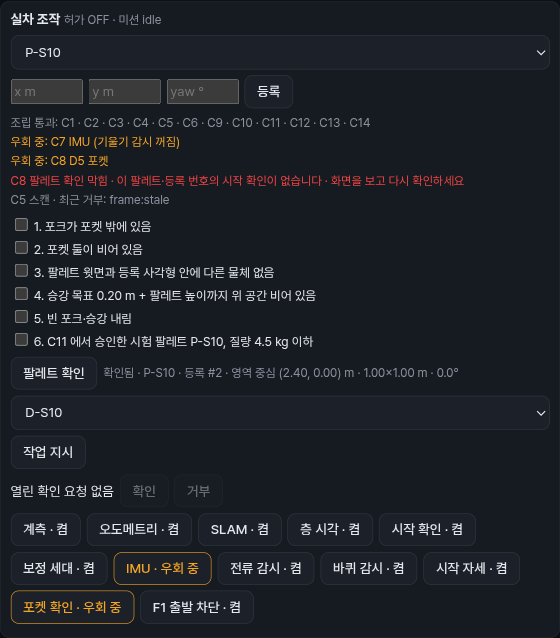
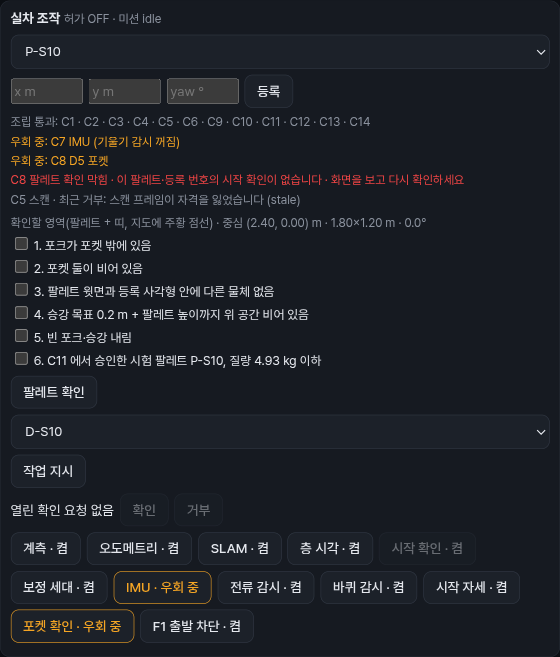
fix(console): U3c after Codex round 1 -- the region shown before the ticks, ticks bound to lease/pose/generation and consumed at send, approved values unrounded, the D5 bypass shown with depth too, closed bypass buttons, scan reason texts

diff --git a/console/web/js/realpanel_dom.js b/console/web/js/realpanel_dom.js
@@ -2,8 +2,8 @@
 // pallet, confirm the start, submit with the registered revision, answer the operator check bound to what was
 // pressed, finish a field recovery, bypass checks, rearm. The decisions are realpanel.js's; this file draws and sends.
 
-import { answerKey, answerStillOpen, bypassButtons, manualOnlyNotice, palletConfirmTexts, panelShown, poseOf,
-  preconditionRows, relocalizeClosedWhy, relocalizeResult, relocalizeView, startFields, startStateText, statusIsMine,
+import { answerKey, answerStillOpen, bypassButtons, checksKey, confirmRegion, manualOnlyNotice, palletConfirmTexts,
+  panelShown, poseOf, preconditionRows, regionText, relocalizeClosedWhy, relocalizeResult, relocalizeView, startFields, startStateText, statusIsMine,
   statusSig, submitClosedWhy, submitRevision, toggleShown } from "./realpanel.js";
 
 const $ = (id) => document.getElementById(id);
@@ -131,22 +131,32 @@ export function bindRealPanel(m, rejectText, clientId) {
   $("rp-start").onclick = guard(() => {
     if (panel.toggle) return say("우회 변경이 적용되기를 기다립니다");
     const st = m.session.realStatus;
-    const fields = startFields(panel.registered, st);
+    const fields = startFields(panel.registered, st, m.session.targets);
     if (fields === null) return say("팔레트를 (다시) 등록한 뒤 확인하세요");
-    if (palletConfirmTexts(st) !== null) {
-      // U3c (plan 2.6): the six lines ticked, for the registration drawn, and the inputs still name it
-      const boxes = [...document.querySelectorAll("#rp-checks input[type=checkbox]")];
-      if (!boxes.length || boxes.some((b) => !b.checked)) return say("여섯 항목을 모두 눈으로 확인하고 표시하세요");
+    const texts = palletConfirmTexts(st);
+    if (texts !== null) {
+      // U3c (plan 2.6): the six lines ticked for exactly the registration, lease and region on screen now
+      // (Codex round 1 P1-1), and the inputs still name the registration
       const reg = panel.registered;
+      if (!confirmRegion(reg, st)) return say("확인할 영역이 아직 오지 않았습니다 · 잠시 뒤 다시 보세요");
+      const box = $("rp-checks");
+      const boxes = [...box.querySelectorAll("input[type=checkbox]")];
+      if (box.dataset.key !== checksKey(st, gens(), reg, texts) || boxes.length !== texts.length
+        || boxes.some((b) => !b.checked)) return say("여섯 항목을 모두 눈으로 확인하고 표시하세요");
       const pose = poseOf($("rp-x").value, $("rp-y").value, $("rp-yaw").value);
       if ($("rp-pallet").value !== reg.pallet || !pose || pose.some((v, i) => Math.abs(v - reg.pose[i]) > 1e-9)) {
         return say("등록한 뒤 팔레트나 자세를 바꿨습니다 · 다시 등록하세요");
       }
+      for (const b of boxes) b.checked = false; // consumed by this one send (Codex round 1 P2-2)
     }
-    send("operator_start", fields, "시작 확인을 보냈습니다").then(() => {
-      for (const b of document.querySelectorAll("#rp-checks input[type=checkbox]")) b.checked = false;
-    });
+    send("operator_start", fields, "시작 확인을 보냈습니다");
   }, "rp-start");
+  // U3c (Codex round 1 P1-1): an edit of the pallet or the pose unticks the six lines, even if edited back
+  for (const id of ["rp-pallet", "rp-x", "rp-y", "rp-yaw"]) {
+    $(id).addEventListener("input", () => {
+      for (const b of $("rp-checks").querySelectorAll("input[type=checkbox]")) b.checked = false;
+    });
+  }
   $("rp-submit").onclick = guard(() => {
     if (panel.toggle) return say("우회 변경이 적용되기를 기다립니다"); // from the toggle's send on (r2 P2-3)
     const rev = submitRevision(panel.registered, m.session.realStatus, m.session.targets);
@@ -318,14 +328,20 @@ export function renderRealPanel(m, clientId) {
     pre.dataset.sig = rowSig;
   }
   pre.hidden = rows.length === 0;
-  // U3c (plan 2.6): the six lines of the pallet confirmation, unticked again for every new registration
+  // U3c (plan 2.6): the region the confirmation would bind, then the six lines -- only for this console's current
+  // registration, unticked again whenever the session, lease, registration, generation or lines change
   const texts = palletConfirmTexts(st);
+  const region = texts === null ? null : confirmRegion(panel.registered, st);
+  panel.confirmRegion = region; // the map draws it (main.js)
   const checks = $("rp-checks");
   checks.hidden = texts === null;
   $("rp-start").textContent = texts === null ? "시작 확인" : "팔레트 확인";
-  const checkSig = texts === null ? "" : `${st.session_epoch}:${st.register_serial}:${texts.join("|")}`;
-  if (checks.dataset.sig !== checkSig) {
-    checks.replaceChildren(...(texts ?? []).map((text, i) => {
+  const ckey = region ? checksKey(st, gens, panel.registered, texts) : "";
+  if (checks.dataset.key !== ckey) {
+    const head = document.createElement("div");
+    head.className = "hint";
+    head.textContent = region ? regionText(region) : "팔레트를 등록하면 확인할 영역과 여섯 항목이 나옵니다";
+    checks.replaceChildren(head, ...(region ? texts : []).map((text, i) => {
       const label = document.createElement("label");
       const box = document.createElement("input");
       box.type = "checkbox";
@@ -333,7 +349,7 @@ export function renderRealPanel(m, clientId) {
       label.append(box, ` ${i + 1}. ${text}`);
       return label;
     }));
-    checks.dataset.sig = checkSig;
+    checks.dataset.key = ckey;
   }
   const key = answerKey(st);
   panel.opKey = key;

diff --git a/console/web/js/realpanel.js b/console/web/js/realpanel.js
@@ -65,9 +65,14 @@ export function toggleShown(toggle, status) {
 export function bypassButtons(status, hasLease) {
   const on = new Set(status && Array.isArray(status.bypassed) ? status.bypassed : []);
   const why = closedWhy(status, hasLease);
-  return BYPASSABLE.map((check) => ({
-    check, label: CHECK_LABELS[check] ?? check, bypassed: on.has(check), enabled: why === null, why,
-  }));
+  return BYPASSABLE.map((check) => {
+    // U3c (Codex round 1 P3-3): what the vehicle refuses on this run is closed here too (real_loop
+    // OPERATING_NOT_BYPASSABLE; the per-pallet confirmation without depth, plan 2.6)
+    const never = (status && status.operating && check === "layer_timing")
+      || (check === "operator_start" && status && Number.isInteger(status.register_serial));
+    const w = never ? "이 실행에서는 우회할 수 없습니다" : why;
+    return { check, label: CHECK_LABELS[check] ?? check, bypassed: on.has(check), enabled: w === null, why: w };
+  });
 }
 
 // The operator answer's key, taken when the request is drawn: (session_epoch, kind, serial), or null.
@@ -184,25 +189,28 @@ export function preconditionRows(status, rejectText = (r) => r) {
 export function palletConfirmTexts(status) {
   if (!status || !Number.isInteger(status.register_serial)) return null;
   const load = (status.preconditions && status.preconditions.load) || {};
-  const num = (v, digits) => (Number.isFinite(v) ? v.toFixed(digits) : "—");
+  // the approved values exactly as the record gives them -- a rounded mass or height is another limit (round 1 P2-1)
+  const num = (v) => (Number.isFinite(v) ? String(v) : "—");
   return [
     "포크가 포켓 밖에 있음",
     "포켓 둘이 비어 있음",
     "팔레트 윗면과 등록 사각형 안에 다른 물체 없음",
-    `승강 목표 ${num(load.lift_target_m, 2)} m + 팔레트 높이까지 위 공간 비어 있음`,
+    `승강 목표 ${num(load.lift_target_m)} m + 팔레트 높이까지 위 공간 비어 있음`,
     "빈 포크·승강 내림",
-    `C11 에서 승인한 시험 팔레트 ${load.test_pallet ? String(load.test_pallet) : "—"}, 질량 ${num(load.pallet_mass_kg, 1)} kg 이하`,
+    `C11 에서 승인한 시험 팔레트 ${load.test_pallet ? String(load.test_pallet) : "—"}, 질량 ${num(load.pallet_mass_kg)} kg 이하`,
   ];
 }
 
 // U3c (plan 2.6): the operator_start request's fields. On a run without the per-pallet confirmation: {} (as before).
 // Otherwise the registration this console made, still the vehicle's current one (same session, revision and
 // register serial), as {pallet_id, targets_revision, register_serial}; null when there is none to confirm.
-export function startFields(registered, status) {
+export function startFields(registered, status, targets = null) {
   if (!status) return null;
   if (!Number.isInteger(status.register_serial)) return {};
   if (!registered || registered.session_epoch !== status.session_epoch || !Number.isInteger(registered.serial)
     || registered.serial !== status.register_serial || registered.revision !== status.targets_revision) return null;
+  // a newer list from either message (as submitRevision, Codex round 1 P3-1)
+  if (targets && Number.isInteger(targets.targets_revision) && targets.targets_revision > registered.revision) return null;
   return { pallet_id: registered.pallet, targets_revision: registered.revision, register_serial: registered.serial };
 }
 
@@ -215,4 +223,31 @@ export function startStateText(status) {
   const [x, y, len, wid, yaw] = b.region.map(Number);
   return `확인됨 · ${b.pallet_id} · 등록 #${b.register_serial} · 영역 중심 (${x.toFixed(2)}, ${y.toFixed(2)}) m`
     + ` · ${len.toFixed(2)}×${wid.toFixed(2)} m · ${((yaw * 180) / Math.PI).toFixed(1)}°`;
+}
+
+// U3c (Codex round 1 P1-2): the region the confirmation would bind, shown before the six lines are ticked -- the
+// vehicle's own d5_region of this console's registration (real_status.register_region), or null when the status's
+// region is not of that registration (another serial, revision or pallet).
+export function confirmRegion(registered, status) {
+  const r = status && status.register_region;
+  if (!r || !registered || !Array.isArray(r.region) || r.region.length !== 5) return null;
+  if (r.register_serial !== registered.serial || r.targets_revision !== registered.revision
+    || r.pallet_id !== registered.pallet) return null;
+  return r.region.map(Number);
+}
+
+export function regionText(region) {
+  if (!region) return "";
+  const [x, y, len, wid, yaw] = region;
+  return `확인할 영역(팔레트 + 띠, 지도에 주황 점선) · 중심 (${x.toFixed(2)}, ${y.toFixed(2)}) m · `
+    + `${len.toFixed(2)}×${wid.toFixed(2)} m · ${((yaw * 180) / Math.PI).toFixed(1)}°`;
+}
+
+// What the six ticks are bound to (Codex round 1 P1-1): the session, the lease, the registration (pallet, pose,
+// revision, serial), the relocalization generation and the six lines -- any change unticks them.
+export function checksKey(status, generations, registered, texts) {
+  if (!status || !texts || !registered) return "";
+  return JSON.stringify([status.session_epoch, generations ? generations.lease_id : null, registered.pallet,
+    registered.pose, registered.revision, registered.serial, status.register_serial,
+    status.relocalize_generation ?? null, texts]);
 }

diff --git a/console/web/js/map.js b/console/web/js/map.js
@@ -210,6 +210,22 @@ export function drawMap(cv, model, tok, view, layers) {
     }
   }
 
+  // U3c (operating plan 2.6, Codex round 1 P1-2): the region the pallet confirmation binds (pallet + bands) -- what
+  // the operator's eyes must clear, dashed in the warning colour
+  const cr = model.confirmRegion;
+  if (Array.isArray(cr) && cr.length === 5 && cr.every(Number.isFinite)) {
+    const [x, y] = P(cr[0], cr[1]);
+    c.save();
+    c.translate(x, y);
+    c.rotate(-cr[4]);
+    c.strokeStyle = tok.warn ?? "#f5a524";
+    c.lineWidth = 1.6;
+    c.setLineDash([6, 4]);
+    c.strokeRect((-cr[2] / 2) * sc, (-cr[3] / 2) * sc, cr[2] * sc, cr[3] * sc);
+    c.setLineDash([]);
+    c.restore();
+  }
+
   // plan as a road: wide grey band, darker core, reverse stretches dashed amber, nodes at cusps
   const plan = st?.plan;
   if (layers.plan && plan && plan.poses.length > 1 && st.mode !== "TELEOP") {

diff --git a/console/web/js/profile.js b/console/web/js/profile.js
@@ -271,6 +271,9 @@ export const REJECT = {
   "operator_start:unconfirmed": "이 팔레트·등록 번호의 시작 확인이 없습니다 · 화면을 보고 다시 확인하세요",
   "not_ready:operator_start:unconfirmed": "시작 확인이 없습니다 · 화면을 보고 확인한 뒤 제출하세요",
   // U3c (operating plan 2.7, 2.9): the precondition row of an IMU that did not qualify
+  // U3c (Codex round 1 P3-2): the scan source's refusals the precondition row tells (real_sources.py), reason after
+  "feed:": "스캔 수신을 거부했습니다",
+  "frame:": "스캔 프레임이 자격을 잃었습니다",
   "imu:unqualified": "IMU 가 검증되지 않았습니다 · imu 우회를 켜야 제출·무장할 수 있습니다(우회 중에는 기울기 감시 꺼짐)",
   // U3b-1: the operating run's case A and run time
   run_time_short: "남은 실행 시간이 모자랍니다",

diff --git a/console/web/js/main.js b/console/web/js/main.js
@@ -1012,6 +1012,7 @@ function frame(now) {
       stale: m.stale,
       armedCandidate: m.armedCandidate,
       placeGhost: m.placeMode ? m.placeGhost : null,
+      confirmRegion: m.realPanel?.confirmRegion ?? null, // U3c: the pallet confirmation's region
     },
     tok,
     m.view,

diff --git a/tests/unit/console/test_realpanel.py b/tests/unit/console/test_realpanel.py
@@ -124,7 +124,7 @@ U3C_DRIVER = """
 import * as P from "file://%s";
 const base = {t: "real_status", session_epoch: 3, permit: {state: "OFF"}, mission: {status: "idle"}, bypassed: [],
   targets_revision: 5};
-const pre = {passed: ["C1", "C2"], load: {lift_target_m: 0.2, test_pallet: "P-S10", pallet_mass_kg: 4.5},
+const pre = {passed: ["C1", "C2"], load: {lift_target_m: 0.204, test_pallet: "P-S10", pallet_mass_kg: 4.56},
   runtime: [{id: "C7", item: "imu", state: "bypassed", why: "imu:unqualified"},
             {id: "C8", item: "d5_pocket", state: "blocked", why: "d5_pocket:no_depth_source"},
             {id: "C8", item: "pallet_confirm", state: "pass", why: null},
@@ -147,6 +147,21 @@ out.state = [P.startStateText({...d5, operator_start: true, operator_start_bindi
                {pallet_id: "P-S10", register_serial: 2, region: [1, 2, 1.8, 0.8, Math.PI / 2]}}),
              P.startStateText({...base, operator_start: true}), P.startStateText({...base, operator_start: false})];
 out.sig = P.statusSig(d5) === P.statusSig({...d5, register_serial: 3});
+out.newerList = [P.startFields(reg, d5, {targets_revision: 6}), P.startFields(reg, d5, {targets_revision: 5})];
+const rr = {pallet_id: "P-S10", register_serial: 2, targets_revision: 5, region: [1, 2, 1.8, 0.8, 0]};
+const d5r = {...d5, register_region: rr};
+out.region = [P.confirmRegion(reg, d5r), P.confirmRegion({...reg, serial: 1}, d5r),
+              P.confirmRegion({...reg, pallet: "Q"}, d5r), P.confirmRegion(reg, d5), P.confirmRegion(null, d5r)];
+out.regionText = P.regionText([1, 2, 1.8, 0.8, 0]);
+const g = {session_epoch: 3, lease_id: "L1"};
+const k0 = P.checksKey(d5r, g, reg, out.texts);
+out.keys = [k0 === P.checksKey(d5r, g, reg, out.texts),
+            k0 === P.checksKey(d5r, {...g, lease_id: "L2"}, reg, out.texts),          // another lease
+            k0 === P.checksKey(d5r, g, {...reg, pose: [1.5, 2, 0]}, out.texts),       // another registered pose
+            k0 === P.checksKey({...d5r, relocalize_generation: 4}, g, reg, out.texts), // a relocalization
+            P.checksKey(d5r, g, null, out.texts)];
+const opb = (st) => Object.fromEntries(P.bypassButtons(st, true).map((b) => [b.check, b.enabled]));
+out.opButtons = [opb({...d5, operating: true}), opb({...base, operating: false})];
 console.log(JSON.stringify(out));
 """
 
@@ -167,8 +182,8 @@ def test_the_u3c_precondition_rows_and_pallet_confirmation(tmp_path):
     ]
     assert out["noRows"] == [[], [], []]
     assert out["texts"] == ["포크가 포켓 밖에 있음", "포켓 둘이 비어 있음", "팔레트 윗면과 등록 사각형 안에 다른 물체 없음",
-                            "승강 목표 0.20 m + 팔레트 높이까지 위 공간 비어 있음", "빈 포크·승강 내림",
-                            "C11 에서 승인한 시험 팔레트 P-S10, 질량 4.5 kg 이하"]
+                            "승강 목표 0.204 m + 팔레트 높이까지 위 공간 비어 있음", "빈 포크·승강 내림",
+                            "C11 에서 승인한 시험 팔레트 P-S10, 질량 4.56 kg 이하"]  # as approved, not rounded
     assert out["noTexts"] == [None, None]
     assert out["textsNoLoad"][3] == "승강 목표 — m + 팔레트 높이까지 위 공간 비어 있음"
     assert out["textsNoLoad"][5] == "C11 에서 승인한 시험 팔레트 —, 질량 — kg 이하"
@@ -178,3 +193,10 @@ def test_the_u3c_precondition_rows_and_pallet_confirmation(tmp_path):
     assert out["state"][0] == "확인됨 · P-S10 · 등록 #2 · 영역 중심 (1.00, 2.00) m · 1.80×0.80 m · 90.0°"
     assert out["state"][1:] == ["확인됨", ""]
     assert out["sig"] is False  # a press drawn for one registration is not taken for the next
+    assert out["newerList"] == [None, {"pallet_id": "P-S10", "targets_revision": 5, "register_serial": 2}]
+    assert out["region"] == [[1, 2, 1.8, 0.8, 0], None, None, None, None]  # only this console's registration
+    assert out["regionText"].endswith("중심 (1.00, 2.00) m · 1.80×0.80 m · 0.0°")
+    assert out["keys"] == [True, False, False, False, ""]  # the ticks are bound to the lease, pose and generation
+    assert out["opButtons"][0]["layer_timing"] is False and out["opButtons"][0]["operator_start"] is False
+    assert out["opButtons"][0]["imu"] is True and out["opButtons"][1]["layer_timing"] is True
+    assert out["opButtons"][1]["operator_start"] is True

diff --git a/src/forklift_core/live/real_loop.py b/src/forklift_core/live/real_loop.py
@@ -455,6 +455,8 @@ class RealLoop:
         self._d5_armed_for = None
         self._d5_moved_for = None  # the mission a STATE showed moved within that span (latched)
         self._register_serial = 0  # every pallet registration on this run (Codex round 2 P2-1: same pose, same rev)
+        # U3c (Codex round 1 P1-2): the bypass region of the newest registration, shown before the eyes check it
+        self._register_region: dict | None = None
         self._rear_now = None  # this tick's control rear pose (the transmit gate's start comparison)
         self.reloc_events: list = []
         self._disarms_taken = 0
@@ -593,7 +595,11 @@ class RealLoop:
             self._register_serial += 1
             if self.operator_start is not None:
                 self.operator_start.void("registered")
-            return None, {"targets_revision": rev_, "register_serial": self._register_serial}
+            pose = core.targets.pallets[msg["pallet_id"]].pose
+            region = [float(v) for v in self.d5_region((pose.x_m, pose.y_m, pose.yaw_rad))]
+            self._register_region = {"pallet_id": msg["pallet_id"], "register_serial": self._register_serial,
+                                     "targets_revision": rev_, "region": region}
+            return None, {"targets_revision": rev_, "register_serial": self._register_serial, "region": region}
         if kind == "operator_start":
             if core.relocalize_generation() is not None:
                 return "relocalize_required", {}  # 5c-2 (6, 2): no start check while the place is not known
@@ -697,6 +703,9 @@ class RealLoop:
             # U3b-2: what the D5 confirmation bound (pallet, revision, relocalization generation, region), or None
             "operator_start_binding": None if start is None or start.binding is None else dict(start.binding),
             "register_serial": self._register_serial if self._d5_confirm_required() else None,
+            # U3c: the region the newest registration's confirmation would bind (the same d5_region), before it
+            "register_region": None if self._register_region is None or not self._d5_confirm_required()
+            else {**self._register_region, "region": list(self._register_region["region"])},
             "targets_revision": core.targets.revision,
             "last_refusal": self.last_refusal,
             "restart_required": self.session.collect_failed,  # 6a: a mission collection raised (restart the executor)
@@ -735,11 +744,14 @@ class RealLoop:
         else:
             imu = row("C7", "imu", "blocked", "imu:unqualified") if self.imu_unqualified else row("C7", "imu", "pass")
         rows = [imu]
-        if self.depth_source is not None:
+        # the bypass first: with a depth source too it turns the pocket check off (Codex U3c round 1 P2-3)
+        if "d5_pocket" in bypass:
+            rows.append(row("C8", "d5_pocket", "bypassed"))
+        elif self.depth_source is not None:
             rows.append(row("C8", "d5_pocket", "pass"))
         else:
-            rows.append(row("C8", "d5_pocket", "bypassed") if "d5_pocket" in bypass
-                        else row("C8", "d5_pocket", "blocked", "d5_pocket:no_depth_source"))
+            rows.append(row("C8", "d5_pocket", "blocked", "d5_pocket:no_depth_source"))
+        if self.depth_source is None:
             shown = self.operator_start is not None and self._start_shown(a)
             rows.append(row("C8", "pallet_confirm", "pass") if shown
                         else row("C8", "pallet_confirm", "blocked", "operator_start:unconfirmed"))

diff --git a/tests/unit/live/test_real_loop_u3c.py b/tests/unit/live/test_real_loop_u3c.py
@@ -4,9 +4,11 @@ confirmation, the scan source's newest refusal), each pass / blocked / bypassed 
 
 from forklift_core.live.real_preconditions import ASSEMBLY_CHECKS
 
-from real_loop_rig import Rig
+import pytest
+
+from real_loop_rig import PALLET, Rig
 from test_real_loop_console import ask
-from test_real_loop_u3b2 import _confirmed, register, rig
+from test_real_loop_u3b2 import REGION, _confirmed, register, rig
 
 
 def rows(r):
@@ -33,10 +35,31 @@ def test_without_depth_the_d5_rows_follow_the_bypass_and_the_confirmation():
     assert rows(r)[("C8", "pallet_confirm")] == ("blocked", "operator_start:unconfirmed")
 
 
-def test_a_run_with_depth_has_no_confirmation_row():
+def test_a_run_with_depth_has_no_confirmation_row_and_shows_its_bypass():
     r = rig(no_depth=False)
     got = rows(r)
     assert got[("C8", "d5_pocket")] == ("pass", None) and ("C8", "pallet_confirm") not in got
+    reply, _ = ask(r, "check_bypass", check="d5_pocket", on=True)
+    assert reply["t"] == "ack", reply
+    r.tick()
+    assert r.core.d5_bypassed and rows(r)[("C8", "d5_pocket")] == ("bypassed", None)  # Codex round 1 P2-3
+
+
+def test_the_registration_tells_its_region_before_the_confirmation():
+    """Codex round 1 P1-2: the region the confirmation binds is on screen before the eyes check it."""
+    r = rig()
+    assert r.loop.real_status(r.now)["register_region"] is None
+    pid = next(iter(r.core.targets.pallets))
+    reply, _ = ask(r, "pallet_register", pallet_id=pid, pose=list(PALLET))
+    assert reply["t"] == "ack" and reply["region"] == pytest.approx(REGION), reply
+    shown = r.loop.real_status(r.now)["register_region"]
+    assert shown["register_serial"] == reply["register_serial"] and shown["pallet_id"] == pid
+    assert shown["targets_revision"] == reply["targets_revision"] and shown["region"] == pytest.approx(REGION)
+    r.tick(30)
+    ok, _ = ask(r, "operator_start", pallet_id=pid, targets_revision=reply["targets_revision"],
+                register_serial=reply["register_serial"])
+    assert ok["t"] == "ack" and ok["region"] == pytest.approx(shown["region"])  # the region shown is the one bound
+    assert rig(no_depth=False).loop.real_status(0)["register_region"] is None  # with depth: no confirmation
 
 
 def test_an_unqualified_imu_is_blocked_until_bypassed():

diff --git a/docs/plans/2026-11-26-real-operating-assembly.md b/docs/plans/2026-11-26-real-operating-assembly.md
@@ -251,10 +251,11 @@
 - 팔레트 확인 버튼(2.6)을 두고, 문구는 `profile.js` 거부 문구 표에 더한다.
 - 구현(U3c):
   - `real_status.preconditions` 는 운영판에서만 있다(그 밖은 `null`). `passed` 는 조립이 판정한 항목(`real_preconditions.ASSEMBLY_CHECKS`, C7·C8 을 뺀 열둘)이고 실행이 넣는다. 조립을 통과한 운영 실행만 이 루프를 만든다.
-  - `runtime` 줄은 `{id, item, state, why}` 다. C7 `imu`: 우회 중이면 `bypassed`, 아니면 미검증이면 `blocked`(`imu:unqualified`), 그 밖은 `pass`. C8 `d5_pocket`: 깊이 원천이 있으면 `pass`, 없으면 우회 중 `bypassed`·아니면 `blocked`(`d5_pocket:no_depth_source`). 깊이 원천이 없을 때만 C8 `pallet_confirm` 줄이 있고, 지금 등록의 확인이 보이면 `pass`, 아니면 `blocked`(`operator_start:unconfirmed`). 우회로 바뀌지 않는다.
+  - `runtime` 줄은 `{id, item, state, why}` 다. C7 `imu`: 우회 중이면 `bypassed`, 아니면 미검증이면 `blocked`(`imu:unqualified`), 그 밖은 `pass`. C8 `d5_pocket`: 우회 중이면 깊이 원천이 있어도 `bypassed`(코어가 포켓 검사를 건너뜀), 아니면 깊이 원천이 있으면 `pass`, 없으면 `blocked`(`d5_pocket:no_depth_source`). 깊이 원천이 없을 때만 C8 `pallet_confirm` 줄이 있고, 지금 등록의 확인이 보이면 `pass`, 아니면 `blocked`(`operator_start:unconfirmed`). 우회로 바뀌지 않는다.
   - 스캔 줄(C5 `scan`)은 원천이 마지막 거부를 지우지 않고 남기므로 막힘이 아니라 `note`(회색)이고, 거부가 있으면 `why` 에 싣는다.
+  - 등록 응답과 `real_status.register_region` 이 그 등록의 우회 영역(확인이 묶을 `d5_region` 과 같은 값)을 싣는다. 콘솔은 확인 **전에** 이 영역을 숫자와 지도 위 주황 점선으로 보인다.
   - `load` 는 여섯째·넷째 문구의 값이다: `lift_target_m`(설정), C11 기록의 `test_pallet`·`pallet_mass_kg`. 조립이 판정한 같은 기록 바이트에서 `RunPrep.operator_load` 로 넘긴다.
-  - 콘솔은 줄을 회색·빨강·주황('우회 중: …', IMU 는 '(기울기 감시 꺼짐)')으로 그린다. 확인이 필요한 실행(`register_serial` 이 정수)에서는 시작 확인 버튼이 '팔레트 확인'이 되고, 여섯 문구를 확인란으로 보인다. 여섯을 모두 표시해야 보내며, 등록 번호가 바뀌면 표시가 풀린다. 요청은 이 콘솔이 한 등록(팔레트·revision·`register_serial`, 등록 응답에서 받음)을 싣고, 입력이 등록과 다르거나 차의 지금 등록과 다르면 보내지 않는다. 확인 줄에는 묶인 팔레트·등록 번호·우회 영역(중심·크기·축)을 보인다. 확인이 필요 없는 실행은 지금처럼 빈 요청이다.
+  - 콘솔은 줄을 회색·빨강·주황('우회 중: …', IMU 는 '(기울기 감시 꺼짐)')으로 그린다. 확인이 필요한 실행(`register_serial` 이 정수)에서는 시작 확인 버튼이 '팔레트 확인'이 되고, 여섯 문구를 확인란으로 보인다. 여섯을 모두 표시해야 보낸다. 표시는 세션·lease·등록(팔레트·자세·revision·번호)·재위치 세대·문구에 묶여 하나라도 바뀌면 풀리고, 팔레트·자세 입력을 고치면(되돌려도) 풀리며, 보낼 때 소비된다. 승인값(질량·승강 목표)은 기록 그대로 보인다(반올림하지 않음). 운영판에서 차가 늘 거부하는 우회 버튼(`layer_timing`, 깊이 없는 `operator_start`)은 닫는다. 요청은 이 콘솔이 한 등록(팔레트·revision·`register_serial`, 등록 응답에서 받음)을 싣고, 입력이 등록과 다르거나 차의 지금 등록과 다르면 보내지 않는다. 확인 줄에는 묶인 팔레트·등록 번호·우회 영역(중심·크기·축)을 보인다. 확인이 필요 없는 실행은 지금처럼 빈 요청이다.
 
 ### 2.10 기록 형식 — C11 승강(학교 수준)
 
